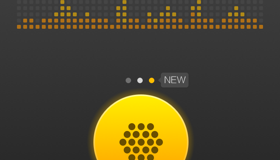
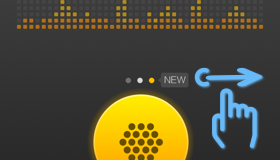
2015年11月16日17:15:03

Changed region(s): [[0.6857, 0.4062, 0.9429, 0.9375]]

diff --git a/assets/manual/page_help/help.html b/assets/manual/page_help/help.html
@@ -2,19 +2,12 @@
  <html xmlns="http://www.w3.org/1999/xhtml"> 
  <head>     
 	 <title>首页</title>     
-	 <meta name="keywords" content="首页关键字" />     
-	 <meta name="description" content="首页描述" />     
 	 <meta http-equiv="Content-Type" content="text/html; charset=utf-8" />     
 	 <meta http-equiv="Cache-Control" content="no-cache" />     
 	 <meta name="viewport" content="width=device-width, minimum-scale=1.0, maximum-scale=2.0" />     
 	 <meta name="apple-mobile-web-app-capable" content="yes" />     
-	 <link rel="apple-touch-icon-precomposed" sizes="48×48" href="/images/48×48.png" />    
-	 <link rel="apple-touch-icon-precomposed" sizes="72×72" href="/images/72×72.png" />     
-	 <link rel="apple-touch-icon-precomposed" sizes="114×114" href="/images/114×114.png" /> 
 	 <link rel="stylesheet" type="text/css" href="css/style2.css">
 	 <style>
-	 //这个圆角矩形在谷歌能用。。不晓得你能不能用上 先写这了
-	 //其他方法画起来都很麻烦，尊的，我先给你把宽度改小了  style2.css是小宽度的样式  style.css是原来的
 	 
 	 /*	.eihhh{
 
@@ -47,7 +40,7 @@
 			 <!--touchstart是触摸触发的事件 不知道体验怎样  -->
 			 	<div class="box" onclick="show(this,1)">
 					<div class="item-point" >
-						<img src="img/Oval 27.png"/>
+						<img src="img/Oval 27.png" width="6" height="6"/>
 						<span class="link">
 						快速选择频道
 						<img class="arrow" style=""src="img/iconfont-zuo copy 2.png"  />
@@ -57,14 +50,6 @@
 						方法一：首页顶部-频道名称-点击-选择频道。<br>
 						方法二：首页-向下滑动-选择频道。
 					</p>
-					<!--<div class="intro" style="margin: 22px 0px 0px 48px;">
-						<img class="intro" src="img/manual_choose1.png" alt="" width="110">
-						<img class="intro" style="margin-left: 10px;" src="img/manual_choose2.png" alt="" width="110">
-					</div>--> 
-					
-					
-					 
-					 
 					<div class="intro" style="margin: 22px 0px 0px 48px;">
 						<img class="intro" src="img/manual_choose1.png" alt="" width="110"> 
 						<!--为了适应白色小盒子的宽度~~此处把图片宽度改成了110  啊好小啊！！！能不能看清啊！-->
@@ -75,7 +60,7 @@
 			 <li>
 			 	<div class="box"  onclick="show(this,1)" touchstart="show(this,1)">
 					<div class="item-point" >
-						<img src="img/Oval 27.png"/>
+						<img src="img/Oval 27.png" width="6" height="6"/>
 						<span class="link">
 						发起实时对讲
 						<img class="arrow" style=""src="img/iconfont-zuo copy 2.png"  />
@@ -94,7 +79,7 @@
 			 <li>
 			 	<div class="box"  onclick="show(this,1)" touchstart="show(this,1)">
 					<div class="item-point" >
-						<img src="img/Oval 27.png"/>
+						<img src="img/Oval 27.png" width="6" height="6"/>
 						<span class="link">
 						建立新对话
 						<img class="arrow" style=""src="img/iconfont-zuo copy 2.png"  />
@@ -113,7 +98,7 @@
 			 <li>
 			 	<div class="box"  onclick="show(this,1)" touchstart="show(this,1)">
 					<div class="item-point" >
-						<img src="img/Oval 27.png"/>
+						<img src="img/Oval 27.png" width="6" height="6"/>
 						<span class="link">
 						邀请会话成员
 						<img class="arrow" style=""src="img/iconfont-zuo copy 2.png"  />
@@ -122,15 +107,15 @@
 					<p class="intro" >
 					方法一：首页-向右滑动-邀请回话成员-勾选添加。<br>
 					<div class="intro" style="margin: 22px 0px 0px 48px;">
-						<img class="intro" src="img/manual_temp_session1.png" alt="" width="110">
-						<img class="intro" style="margin-left: 10px;" src="img/manual_temp_session2.png" alt="" width="110">
+						<img class="intro" src="img/manual_temp_session2.png" alt="" width="110">
+						<img class="intro" style="margin-left: 10px;" src="img/manual_temp_session1.png" alt="" width="110">
 					</div>
 				</div>
 			 </li>
 			 <li>
 			 	<div class="box"  onclick="show(this,1)" touchstart="show(this,1)">
 					<div class="item-point" >
-						<img src="img/Oval 27.png"/>
+						<img src="img/Oval 27.png" width="6" height="6"/>
 						<span class="link">
 						实时视频回传
 						<img class="arrow" style=""src="img/iconfont-zuo copy 2.png"  />
@@ -140,15 +125,15 @@
 						首页-向上滑动/点击实时视频回传。
 					</p>
 					<div class="intro" style="margin: 22px 0px 0px 48px;">
-						<img class="intro" src="img/manual_poc1.png" alt="" width="110">
-						<img class="intro" style="margin-left: 10px;" src="img/manual_poc2.png" alt="" width="110">
+						<img class="intro" src="img/manual_video1.png" alt="" width="110">
+						<img class="intro" style="margin-left: 10px;" src="img/manual_video2.png" alt="" width="110">
 					</div>
 				</div>
 			 </li>
 			 <li>
 			 	<div class="box"  onclick="show(this,1)" touchstart="show(this,1)">
 					<div class="item-point" >
-						<img src="img/Oval 27.png"/>
+						<img src="img/Oval 27.png" width="6" height="6"/>
 						<span class="link">
 						锁定频道
 						<img class="arrow" style=""src="img/iconfont-zuo copy 2.png"  />
@@ -158,15 +143,15 @@
 						锁定后，默认优先收听锁定频道的信息。
 					</p>
 					<div class="intro" style="margin: 22px 0px 0px 48px;">
-						<img class="intro" src="img/manual_video1.png" alt="" width="110">
-						<img class="intro" style="margin-left: 10px;" src="img/manual_video2.png" alt="" width="110">
+						<img class="intro" src="img/manual_lock1.png" alt="" width="110">
+						<img class="intro" style="margin-left: 10px;" src="img/manual_lock2.png" alt="" width="110">
 					</div>
 				</div>
 			 </li>
 			 <li>
 			 	<div class="box"  onclick="show(this,1)" touchstart="show(this,1)">
 					<div class="item-point">
-						<img src="img/Oval 27.png">
+						<img src="img/Oval 27.png" width="6" height="6"/>
 						<span class="link">
 						历史消息查询
 						<img class="arrow" style="" src="img/iconfont-zuo copy 2.png">
@@ -176,8 +161,8 @@
 						首页-向左滑，查看全部历史对讲及会话消息。
 					</p>
 					<div class="intro" style="margin: 22px 0px 0px 48px;">
-						<img class="intro" src="img/manual_history1.png" alt="" width="110">
-						<img class="intro" style="margin-left: 10px;" src="img/manual_history2.png" alt="" width="110">
+						<img class="intro" src="img/manual_history2.png" alt="" width="110">
+						<img class="intro" src="img/manual_history1.png" alt="" width="110" style="margin-left: 10px;" >
 					</div>
 				</div>
 			 </li>

diff --git a/assets/manual/page_help/js/SpreadOut.js b/assets/manual/page_help/js/SpreadOut.js
@@ -1,17 +1,11 @@
-//չ������Ч��
 function show(e, state) {
 	if (state == 1) {
-		// ƽ��չ��
 		$(e).animate({
 			height : "320px"
 		}, 600);
-		// �л�����
 		$(e).css("background-image", "url(img/box_bg_open_lager.png)");
-		// �л���ͷ����
 		$(e).find(".arrow").attr("src", "img/iconfont-zuo copy.png");
-		// ���¼���2���open
 		$(e).attr("onclick", "show(this,2)");
-		// ��ʾ����
 		$(e).find(".intro").fadeIn(500);
 
 	} else {

diff --git a/src/com/airtalkee/activity/MenuAboutActivity.java b/src/com/airtalkee/activity/MenuAboutActivity.java
@@ -26,8 +26,7 @@ import com.airtalkee.sdk.entity.AirStatisticsNetworkByte;
 import com.airtalkee.sdk.util.IOoperate;
 import com.airtalkee.services.AirServices;
 
-public class MenuAboutActivity extends ActivityBase implements OnClickListener,
-		AirMmiTimerListener, OnVersionUpdateListener
+public class MenuAboutActivity extends ActivityBase implements OnClickListener, AirMmiTimerListener, OnVersionUpdateListener
 {
 	private LinearLayout statLayout, checkVersionLayout;
 	private TextView statLayoutTime, statLayoutBytes, tvVersion, versionMsg, versionCode;
@@ -102,12 +101,12 @@ public class MenuAboutActivity extends ActivityBase implements OnClickListener,
 		tvVersion.setText(getString(R.string.talk_version) + Config.VERSION_CODE);
 
 		versionMsg = (TextView) findViewById(R.id.talk_tv_update_msg);
-		
+
 		versionCode = (TextView) findViewById(R.id.talk_tv_version_code);
 		ivUpdateIcon = (ImageView) findViewById(R.id.talk_iv_update_icon);
-		checkVersion();
 		checkVersionLayout = (LinearLayout) findViewById(R.id.talk_check_version);
 		checkVersionLayout.setOnClickListener(this);
+		checkVersion();
 
 		statLayout = (LinearLayout) findViewById(R.id.talk_tv_statistic);
 		statLayoutTime = (TextView) findViewById(R.id.talk_tv_statistic_time);
@@ -129,7 +128,6 @@ public class MenuAboutActivity extends ActivityBase implements OnClickListener,
 			}
 			case R.id.talk_check_version:
 			{
-				
 				checkVersion();
 				break;
 			}
@@ -220,21 +218,21 @@ public class MenuAboutActivity extends ActivityBase implements OnClickListener,
 	@Override
 	public void UserVersionUpdate(int versionFlag, String versionInfo, final String url)
 	{
-//		versionFlag = 1;
+		// versionFlag = 1;
 		if (versionFlag == 0)
 		{
-//			versionMsg.setVisibility(View.VISIBLE);
+			// versionMsg.setVisibility(View.VISIBLE);
 			versionMsg.setText(R.string.talk_verion_latest);
 			versionMsg.setTextColor(getResources().getColor(R.color.update_text_none));
-			
+
 			versionCode.setVisibility(View.GONE);
 			ivUpdateIcon.setVisibility(View.GONE);
 		}
 		else
 		{
 			ivUpdateIcon.setVisibility(View.VISIBLE);
-//			versionCode.setText(versionInfo);
-			versionCode.setText("V2.3.1");
+			versionCode.setText(versionInfo);
+			// versionCode.setText("V2.3.1");
 			versionCode.setVisibility(View.VISIBLE);
 			versionMsg.setText(R.string.talk_version_new);
 			versionMsg.setTextColor(getResources().getColor(R.color.update_text_new));
